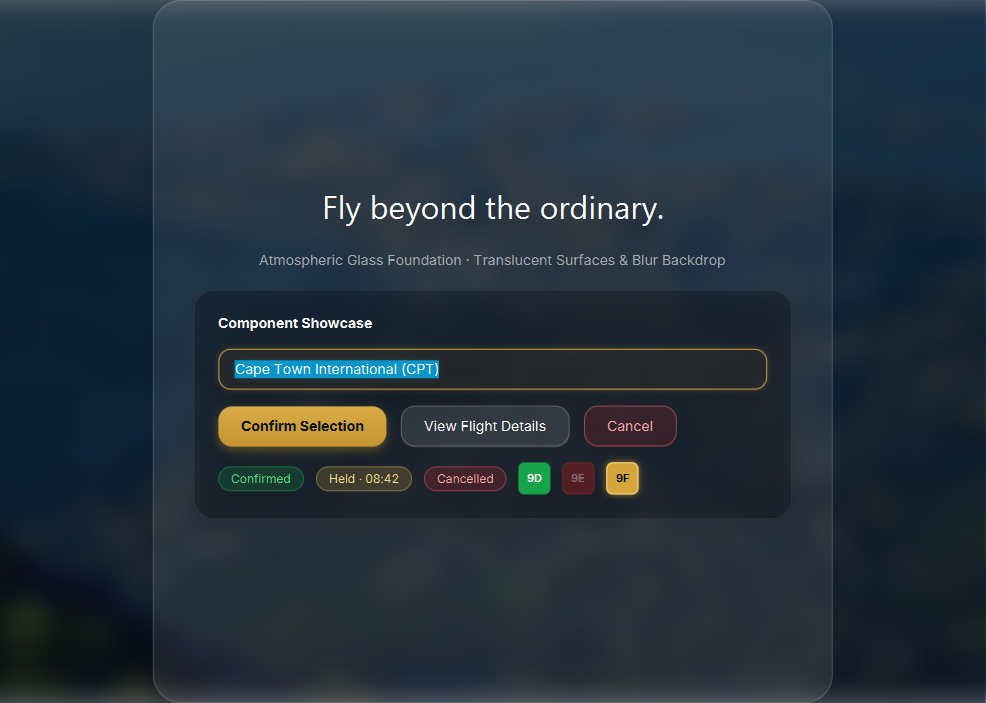
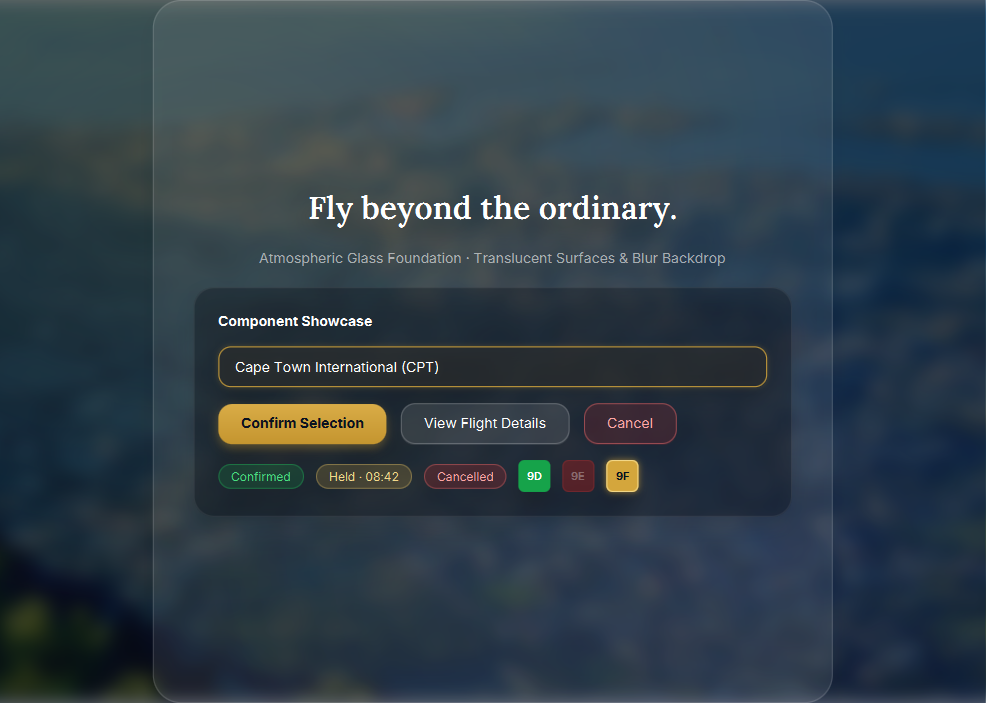
fix: glass headline font, backdrop tuning

diff --git a/desktop/src/main/resources/com/group2/flightres/css/glass.css b/desktop/src/main/resources/com/group2/flightres/css/glass.css
@@ -224,8 +224,7 @@
  * ------------------------------------------------------------------- */
 
 .headline-serif, .glass-headline {
-    -fx-font-family: 'Lora', Georgia, serif;
-    -fx-font-weight: 600;
+    -fx-font-family: 'Lora SemiBold';
     -fx-font-size: 32px;
     -fx-text-fill: #ffffff;
 }

diff --git a/desktop/src/main/java/com/group2/flightres/util/GlassBackground.java b/desktop/src/main/java/com/group2/flightres/util/GlassBackground.java
@@ -25,14 +25,16 @@ public class GlassBackground extends StackPane {
 
     private static final Logger logger = LoggerFactory.getLogger(GlassBackground.class);
 
-    public static final double DEFAULT_BLUR_RADIUS = 40.0;
-    public static final double DEFAULT_DARKNESS = -0.50; // -50% brightness
+    public static final double DEFAULT_BLUR_RADIUS = 28.0;
+    public static final double DEFAULT_DARKNESS = -0.35; // -35% brightness
     public static final String DEFAULT_NAVY_OVERLAY_COLOR = "rgba(11, 18, 32, 0.60)";
 
     private final ImageView backgroundImageView = new ImageView();
     private final ColorAdjust colorAdjust = new ColorAdjust();
     private final GaussianBlur gaussianBlur = new GaussianBlur();
     private final Region navyOverlay = new Region();
+    private final Region glowGold = new Region();   // soft gold top-left
+    private final Region glowBlue = new Region();   // soft blue bottom-right
     private final StackPane contentContainer = new StackPane();
     private final Rectangle clipRect = new Rectangle();
 
@@ -61,14 +63,31 @@ public class GlassBackground extends StackPane {
         navyOverlay.prefWidthProperty().bind(widthProperty());
         navyOverlay.prefHeightProperty().bind(heightProperty());
 
+        // 2b. Radial glow accents (sit above navy overlay, below content)
+        glowGold.prefWidthProperty().bind(widthProperty());
+        glowGold.prefHeightProperty().bind(heightProperty());
+        glowGold.setMouseTransparent(true);
+        // Gold glow: centred upper-left, soft radial fade
+        glowGold.setStyle(
+                "-fx-background-color: radial-gradient(center 20% 22%, radius 65%," +
+                " rgba(212,166,60,0.16) 0%, transparent 100%);");
+
+        glowBlue.prefWidthProperty().bind(widthProperty());
+        glowBlue.prefHeightProperty().bind(heightProperty());
+        glowBlue.setMouseTransparent(true);
+        // Blue glow: centred lower-right
+        glowBlue.setStyle(
+                "-fx-background-color: radial-gradient(center 80% 78%, radius 60%," +
+                " rgba(79,124,255,0.12) 0%, transparent 100%);");
+
         // 3. Configure content container
         contentContainer.setAlignment(Pos.CENTER);
         if (content != null) {
             contentContainer.getChildren().add(content);
         }
 
-        // 4. Assemble stack: ImageView (bottom), Navy overlay (middle), Content (top)
-        getChildren().addAll(backgroundImageView, navyOverlay, contentContainer);
+        // 4. Assemble stack: ImageView (bottom), Navy overlay, Glow accents, Content (top)
+        getChildren().addAll(backgroundImageView, navyOverlay, glowGold, glowBlue, contentContainer);
 
         // 5. Constrain blurred bleed using clip
         clipRect.widthProperty().bind(widthProperty());

diff --git a/desktop/src/main/java/com/group2/flightres/tools/GlassFoundationTestRunner.java b/desktop/src/main/java/com/group2/flightres/tools/GlassFoundationTestRunner.java
@@ -1,5 +1,6 @@
 package com.group2.flightres.tools;
 
+import com.group2.flightres.util.FontLoader;
 import com.group2.flightres.util.GlassBackground;
 import com.group2.flightres.util.ThemeManager;
 import javafx.animation.PauseTransition;
@@ -46,6 +47,9 @@ public class GlassFoundationTestRunner extends Application {
 
     @Override
     public void start(Stage stage) {
+        // Load fonts BEFORE the Scene is created so CSS can resolve font families
+        FontLoader.loadFonts();
+
         stage.setTitle("Glass Foundation Preview");
         stage.setWidth(WIDTH);
         stage.setHeight(HEIGHT);
@@ -75,6 +79,7 @@ public class GlassFoundationTestRunner extends Application {
         TextField sampleInput = new TextField();
         sampleInput.setPromptText("Search flight destination or reference (e.g. CPT)...");
         sampleInput.setText("Cape Town International (CPT)");
+        sampleInput.deselect(); // prevent selection highlight in screenshot
 
         // Buttons row
         HBox buttonsRow = new HBox(14);
@@ -133,6 +138,7 @@ public class GlassFoundationTestRunner extends Application {
         pause.setOnFinished(e -> {
             scene.getRoot().applyCss();
             scene.getRoot().layout();
+            sampleInput.deselect(); // ensure no selection highlight in snapshot
 
             WritableImage snapshot = scene.snapshot(null);
             File outputFile = getOutputDir().resolve("glass-foundation.png").toFile();

diff --git a/desktop/src/main/java/com/group2/flightres/util/FontLoader.java b/desktop/src/main/java/com/group2/flightres/util/FontLoader.java
@@ -41,7 +41,7 @@ public final class FontLoader {
                     }
                     Font font = Font.loadFont(is, 14.0);
                     if (font != null) {
-                        logger.info("Successfully loaded font: {} ({}) from {}", font.getName(), font.getFamily(), fontFile);
+                        logger.info("FONT_LOADED name='{}' family='{}' from {}", font.getName(), font.getFamily(), fontFile);
                     } else {
                         logger.warn("JavaFX Font.loadFont returned null for: {}", fontFile);
                     }
@@ -49,6 +49,13 @@ public final class FontLoader {
                     logger.error("Failed to load font from resource: {}", fontFile, e);
                 }
             }
+            // Diagnostic: print all registered families so we can verify exact names
+            java.util.List<String> families = Font.getFamilies();
+            logger.info("FONT_FAMILIES_WITH_LORA: {}",
+                    families.stream()
+                            .filter(f -> f.toLowerCase().contains("lora") || f.toLowerCase().contains("inter"))
+                            .collect(java.util.stream.Collectors.toList()));
+            logger.info("ALL_FONT_FAMILIES_COUNT: {}", families.size());
         }
     }
 }
